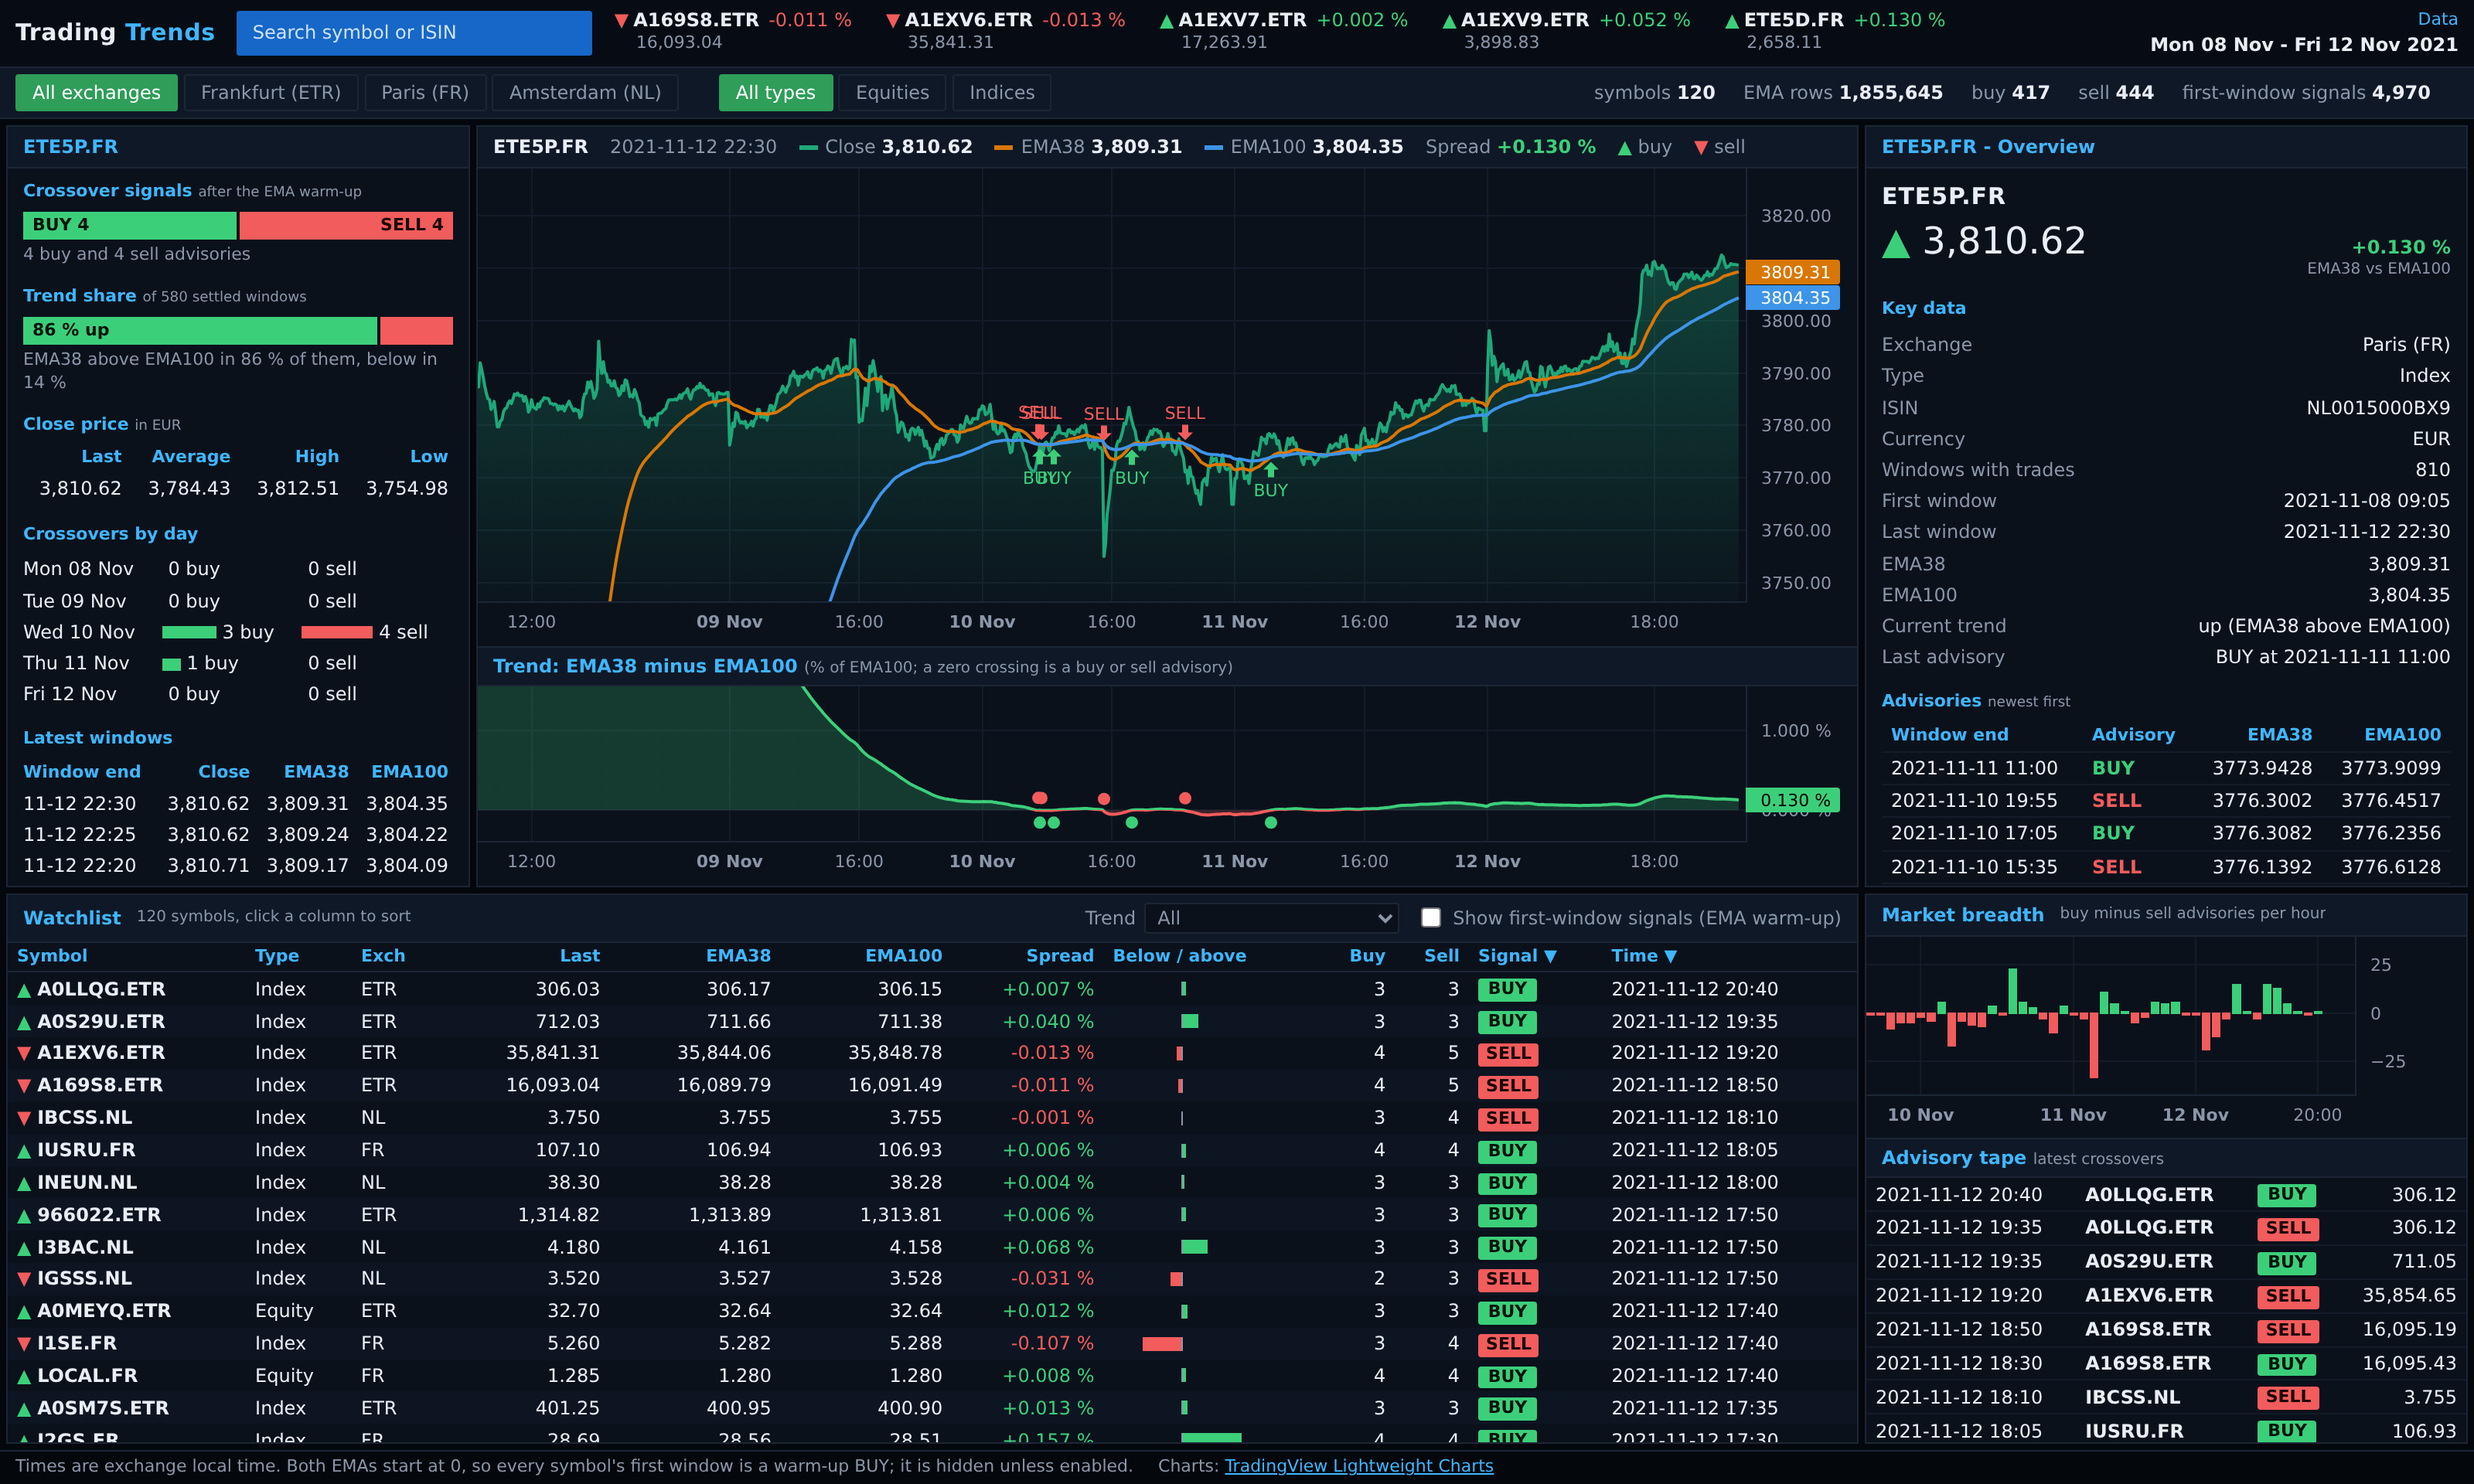
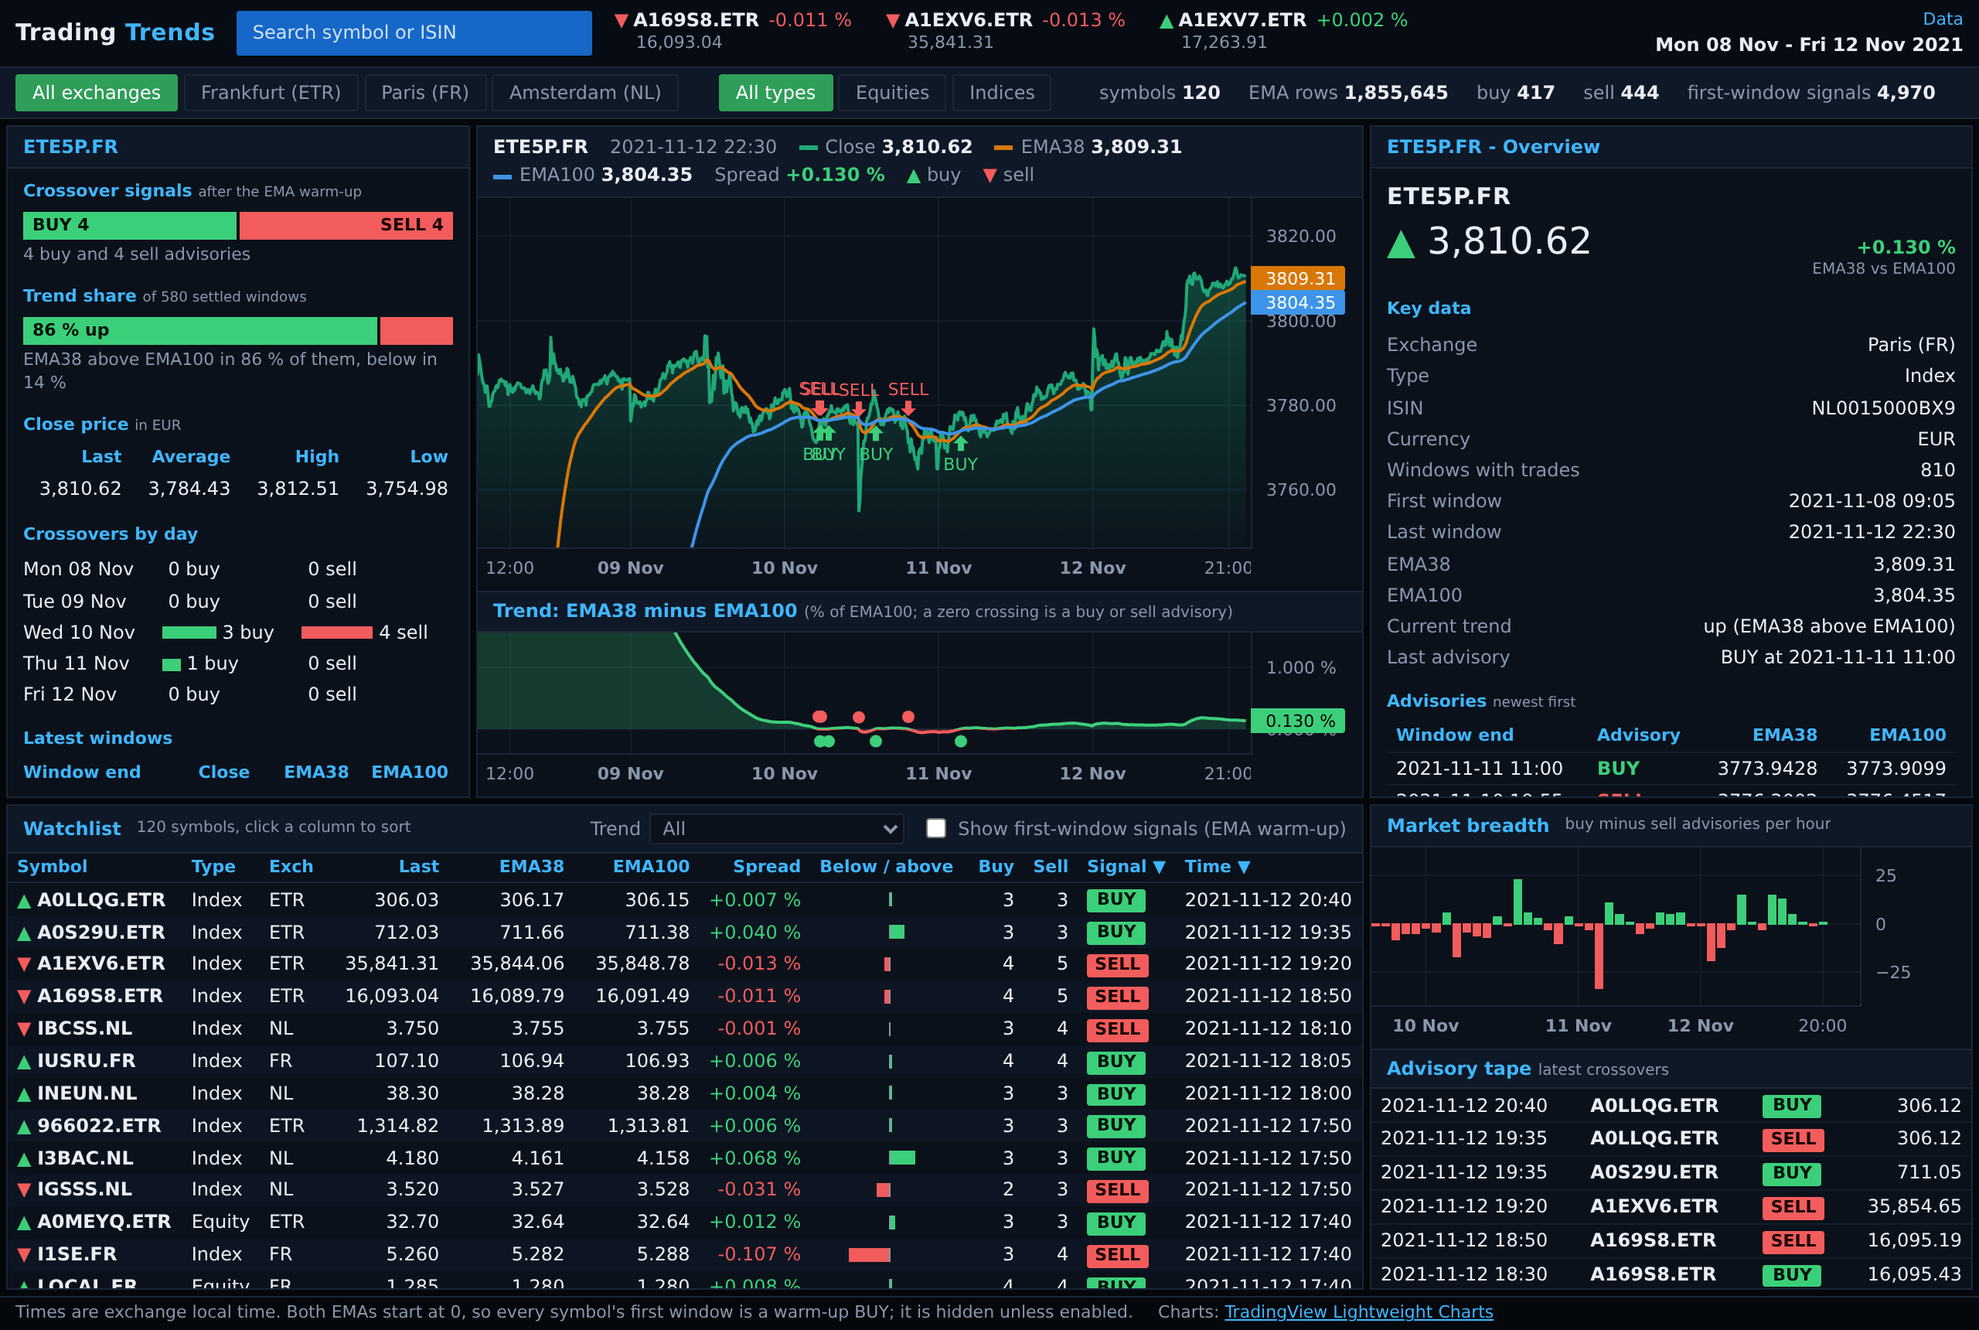
Describe the terminal dashboard in the visualisation section
The text matches the new layout (watchlist table sortable by any column,
side panels, advisory tape) and the figure is the real-data screenshot.

diff --git a/analysis/correctness/sections/visualisation.tex b/analysis/correctness/sections/visualisation.tex
@@ -2,21 +2,19 @@
 \subsection{Dashboard}
 \label{sec:dashboard}
 
-The results are meant for traders, so we built a dashboard that answers ``which of my symbols is trending, and since when?'' at a glance (Figure~\ref{fig:dashboard}).
+The results are meant for traders, so we built a dashboard in the style of a market data terminal that answers ``which of my symbols is trending, and since when?'' at a glance (Figure~\ref{fig:dashboard}).
 \texttt{trading/viz.py} turns the \texttt{ema.csv} and \texttt{advisories.csv} of any engine into one self-contained HTML page.
-A watchlist on the left shows, for each symbol, its current trend (EMA38 above or below EMA100), its exchange and security type, and its latest advisory; it can be filtered by exchange, security type and trend, searched by symbol or ISIN, and sorted by latest signal or number of crossovers.
-The main panel plots the closing price per window with both EMAs and the advisories as markers.
+A watchlist table shows, for each symbol, its last close, both EMAs, their gap as a bar, its buy and sell counts and its latest advisory; it can be filtered by exchange, security type and trend, searched by symbol or ISIN, and sorted by any column.
+The main panel plots the closing price per window with both EMAs and the advisories as markers, with a read-out that follows the cursor.
 Below it, a trend panel shows the gap $\mathrm{EMA}_{38}-\mathrm{EMA}_{100}$ in percent of $\mathrm{EMA}_{100}$, shaded green above zero and red below, so that every advisory is visible as a zero crossing.
-A market-breadth histogram counts buy minus sell advisories per hour over the symbols that match the filters.
+Side panels give the selected symbol's key data (exchange, ISIN, currency), its signal counts, its crossovers per day and its advisories.
+A market-breadth histogram counts buy minus sell advisories per hour over the symbols that match the filters, next to a tape of their latest advisories.
 First-window advisories (Section~\ref{sec:design-space}) are hidden by default and shown as grey warm-up markers on request, and the price axis follows the closing prices so that the EMA warm-up from zero does not flatten the chart.
 
 \begin{figure}[t]
   \centering
-  % TODO(Kristian): replace with a screenshot from real data (day 09 or the week, a well-known symbol with a BUY then a SELL), e.g.
-  %   python -m trading.viz --results out/week/reference-300 --metadata data/week/metadata.parquet --include <SYMBOL>
-  %   then save it as analysis/correctness/figures/dashboard.png and change the file name below
-  \includegraphics[width=\linewidth]{dashboard-synthetic.png}
-  \caption{Dashboard for one symbol: closing price per 5-minute window with EMA38 and EMA100 and the advisories (top), the EMA gap with its zero crossings (middle) and market breadth over the filtered symbols (bottom). \todo{real data}}
-  \Description{Screenshot of the dashboard: a watchlist on the left, a price chart with two moving averages and buy and sell markers, a green and red shaded trend panel, and a histogram of buy minus sell advisories per hour.}
+  \includegraphics[width=\linewidth]{dashboard.png}
+  \caption{Dashboard on the week of real data, index ETE5P.FR selected: closing price per 5-minute window with EMA38 and EMA100 and the advisories (centre), the EMA gap with its zero crossings below it, the symbol's signal counts and key data (left and right), and the watchlist, market breadth and advisory tape (bottom).}
+  \Description{Screenshot of the dark dashboard: a price chart with two moving averages and buy and sell markers, a green and red shaded trend panel, side panels with the symbol's key data, a watchlist table, a histogram of buy minus sell advisories per hour and a list of the latest advisories.}
   \label{fig:dashboard}
 \end{figure}
